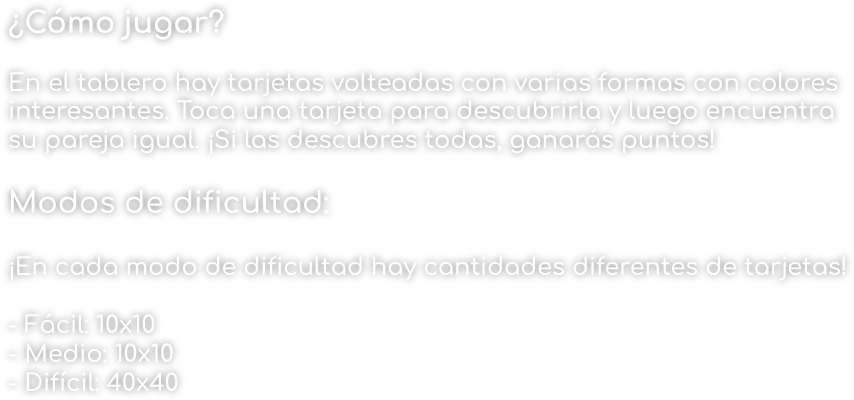
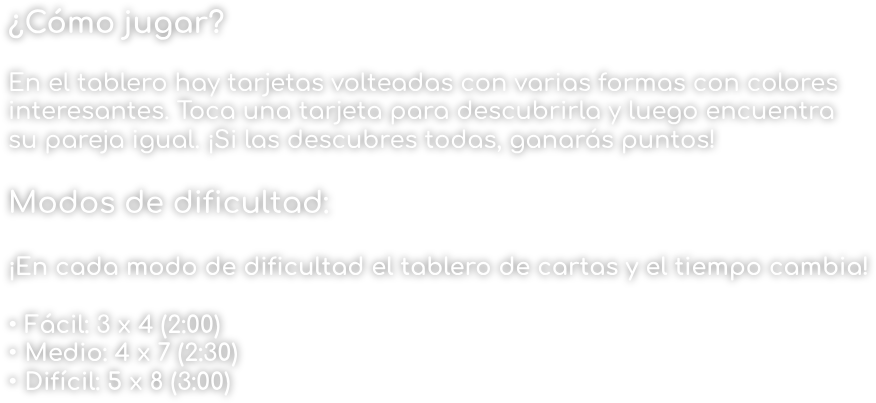
feat(in-game-screen): create different difficulty types and prepare storage for saving player records

diff --git a/src/screen/in_game_screen.py b/src/screen/in_game_screen.py
@@ -1,12 +1,14 @@
 import pygame
 import random
+from enum import Enum
 from util.asset_paths import image_path
 from screen.base import GameScreen
 from game import Game, GameScreen
 from util.easing import ease_in_out_cubic
 from screen.component.back_to_main_menu_button import BackToMainMenuButton
+from game import GAME_TIMER_EVENT
 
-FLIPPING_PROGRESS_STEP = 4
+CARD_FLIPPING_PROGRESS_STEP = 4
 
 class InGameCard:
     def __init__(self, screen: "InGameScreen", identifier: str, width: int, height: int):
@@ -25,7 +27,7 @@ class InGameCard:
 
     def draw(self, y_offset: float):
         if (self.flipping_progress > 0):
-            self.flipping_progress -= FLIPPING_PROGRESS_STEP
+            self.flipping_progress -= CARD_FLIPPING_PROGRESS_STEP
         
         width_progress = self.flipping_progress - 50 if self.flipping_progress > 50 else 50 - self.flipping_progress
         progress = ease_in_out_cubic(width_progress / 50) * 100
@@ -77,6 +79,7 @@ class InGameCardGroup:
         self.found_pairs: list[str] = []
         self.queued_card_flip_ticks = -1
         self.cards_queued_for_flipping: list[str] = []
+        self.reset_cards_ticks = -1
 
     def __populate_cards(self):
         random.shuffle(AVAILABLE_CARDS) # mutating the original list is not a problem here
@@ -108,6 +111,14 @@ class InGameCardGroup:
             self.queued_card_flip_ticks = -1
             self.__flip_queued_cards()
 
+        if (self.reset_cards_ticks > 0):
+            self.reset_cards_ticks -= 1
+        if (self.reset_cards_ticks == 100):
+            self.flip_all()
+        if (self.reset_cards_ticks == 0):
+            self.reset_cards_ticks = -1
+            self.reset()
+
         is_mouse_hovering = False
         for card in self.cards:
             card.is_mouse_hovering = card.rect.collidepoint(pygame.mouse.get_pos()) if not self.screen.is_transitioning() and not card.is_flipped and not card.is_flipping() else False
@@ -116,12 +127,20 @@ class InGameCardGroup:
                 is_mouse_hovering = True
         self.is_mouse_hovering = is_mouse_hovering if not self.screen.is_transitioning() and self.interactive and len(self.get_selected_cards()) < 2 else False
         
+    def reset(self):
+        self.cards.clear()
+        self.__populate_cards()
+        self.__align_images_in_grid()
+        self.screen.card_display_time = self.screen.difficulty.card_display_time - 50
+        self.found_pairs.clear()
+        self.screen.elapsed_time = 0
+
     def on_click(self):
         if (not self.interactive or len(self.get_selected_cards()) >= 2): return
         for card in self.cards:
             card.on_screen_click()
         self.__queue_selected_flip_if_needed()
-        # self.check_for_game_win()
+        self.__check_for_win()
 
     def flip_all(self):
         for card in self.cards:
@@ -142,40 +161,95 @@ class InGameCardGroup:
             self.found_pairs.append(selected_cards[0])
         else:
             self.cards_queued_for_flipping = selected_cards
-            self.queued_card_flip_ticks = 35
+            self.queued_card_flip_ticks = 25
 
     def __flip_queued_cards(self):
         for card in self.cards:
             if (card.identifier in self.cards_queued_for_flipping and card.is_flipped):
                 card.flip()
 
+    def __check_for_win(self):
+        all_flipped = True
+        for card in self.cards:
+            if (not card.is_flipped):
+                all_flipped = False
+                break
+        if (all_flipped):
+            self.screen.timer_active = False
+            self.interactive = False
+            self.reset_cards_ticks = 200
+            self.screen.add_points()
+
+class InGameInfoDisplay:
+    def __init__(self, screen: "InGameScreen"):
+        self.screen = screen
+        self.font = screen.game.font_manager.get("comfortaa-bold", 25)
+
+    def draw(self):
+        self.__update_info()
+        self.__draw_centered_text(self.time_left, 30)
+        self.__draw_centered_text(self.points, 60)
+
+    def __draw_centered_text(self, label: str, y: int):
+        text = self.font.render(label, True, (255, 255, 255))
+        x = self.screen.game.display.get_width() / 2 - text.get_width() / 2
+        self.screen.game.display.blit(text, (x, y))
+
+    def __update_info(self):
+        time_left_minutes = self.screen.time_left // 60
+        time_left_seconds = self.screen.time_left - (time_left_minutes * 60)
+        self.time_left = f"{str.rjust(str(time_left_minutes), 2, "0")}:{str.rjust(str(time_left_seconds), 2, "0")}"
+        self.points = f"Puntos: {self.screen.points}"
+
+class InGameDifficulty(Enum):
+    EASY = (1, 1.0, 3, 4, 120, 220) 
+    MEDIUM = (2, 1.5, 4, 7, 150, 290)
+    HARD = (3, 2.0, 5, 8, 180, 400)
+
+    def __init__(self, value: int, multiplier: float, rows: int, columns: int, game_time: int, card_display_time: int):
+        self._value_ = value
+        self.multiplier = multiplier
+        self.rows = rows
+        self.columns = columns
+        self.game_time = game_time
+        self.card_display_time = card_display_time
+
 class InGameScreen(GameScreen):
-    def __init__(self, game: Game, rows: int, columns: int, initial_points: int):
+    def __init__(self, game: Game, difficulty: InGameDifficulty):
         super().__init__(game)
-        self.card_group = InGameCardGroup(self, rows, columns)
+        self.difficulty = difficulty
+        self.card_group = InGameCardGroup(self, difficulty.rows, difficulty.columns)
         self.empty_card_image = pygame.image.load(image_path("empty_card.png"))
-        self.initial_card_display_time = 250
-        self.initial_points = initial_points
-        self.back_button = BackToMainMenuButton(self)
+        self.card_display_time = difficulty.card_display_time
+        self.back_button = BackToMainMenuButton(self, "Salir")
+        back_button_width = 250
         self.back_button.set_rect(
-            pygame.Rect(game.display.get_width() / 2 - 125, 563, 250, 60)
+            pygame.Rect(game.display.get_width() / 2 - back_button_width / 2, 563, back_button_width, 60)
         )
+        self.points = 0
+        self.time_left = difficulty.game_time
+        self.elapsed_time = 0
+        self.timer_active = False
+        self.game_info_display = InGameInfoDisplay(self)
 
     def draw(self):
         current_y_offset = self.transition_offset()
         if (current_y_offset < -400 and self._hiding):
             self.hidden = True
             return
-        if (self.initial_card_display_time == 0):
-            self.initial_card_display_time = -1
+        if (self.card_display_time == 0):
+            self.card_display_time = -1
             self.card_group.flip_all()
             self.card_group.interactive = True
-        elif (self.initial_card_display_time == 190):
+            pygame.time.set_timer(GAME_TIMER_EVENT, millis=1000)
+            self.timer_active = True
+        elif (self.card_display_time == self.difficulty.card_display_time - 50):
             self.card_group.flip_all()
 
-        if (self.initial_card_display_time > 0):
-            self.initial_card_display_time -= 1
+        if (self.card_display_time > 0):
+            self.card_display_time -= 1
 
+        self.game_info_display.draw()
         self.card_group.draw(current_y_offset)
 
         self.back_button.is_mouse_hovering = self.back_button.rect.collidepoint(pygame.mouse.get_pos()) if not self.is_transitioning() else False
@@ -189,3 +263,13 @@ class InGameScreen(GameScreen):
     def on_click(self):
         self.card_group.on_click()
         self.back_button.on_screen_click()
+
+    def add_points(self):
+        print(self.elapsed_time)
+        base_points = max(0, self.difficulty.game_time - self.elapsed_time)
+        self.points += int(base_points * self.difficulty.multiplier)
+
+    def on_game_timer_tick(self):
+        if (self.timer_active):
+            self.time_left -= 1
+            self.elapsed_time += 1

diff --git a/src/game.py b/src/game.py
@@ -4,9 +4,12 @@ from manager.fonts import FontManager
 from manager.sounds import SoundManager
 from screen.component.background import GameBackground
 from manager.settings import SettingsManager
-        
+
 INITIAL_MUSIC_DELAY = 40
 INITIAL_MAIN_MENU_TRANSITION_DELAY = 20
+
+GAME_TIMER_EVENT = pygame.USEREVENT + 1
+
 
 class Game:
     def __init__(self):
@@ -18,11 +21,13 @@ class Game:
         self.font_manager = FontManager()
         self.settings = SettingsManager(self.storage)
         self.sound_manager = SoundManager(self.settings)
-        self.background = GameBackground(self.display, self.settings.transitions_enabled)
-        self.__current_screen: GameScreen = MainMenuScreen(self, INITIAL_MAIN_MENU_TRANSITION_DELAY if self.settings.transitions_enabled else 0)
+        self.background = GameBackground(
+            self.display, self.settings.transitions_enabled)
+        self.__current_screen: GameScreen = MainMenuScreen(
+            self, INITIAL_MAIN_MENU_TRANSITION_DELAY if self.settings.transitions_enabled else 0)
         self.__next_screen: GameScreen | None = None
         self.__music_tick_delay_left = INITIAL_MUSIC_DELAY if self.settings.music_enabled else -1
-        
+
     def handle_initial_music_playback(self):
         if (self.__music_tick_delay_left > 0):
             self.__music_tick_delay_left -= 1
@@ -32,18 +37,19 @@ class Game:
 
     def run(self):
         while self.is_running:
-            pygame.display.set_caption(f"Memoria - {int(self.clock.get_fps())} FPS")
+            pygame.display.set_caption(
+                f"Memoria - {int(self.clock.get_fps())} FPS")
             self.handle_events()
-            self.handle_initial_music_playback()    
+            self.handle_initial_music_playback()
             self.handle_screen_switch()
-            
+
             self.display.fill((0, 0, 0))
             self.background.draw()
             self.__current_screen.draw()
-            
+
             pygame.display.flip()
             self.clock.tick(60)
-            
+
     def handle_screen_switch(self):
         if (self.__next_screen == None):
             return
@@ -54,13 +60,17 @@ class Game:
     def stop(self):
         self.storage.close()
         self.is_running = False
-            
+
     def handle_events(self):
+        from screen.in_game_screen import InGameScreen
         for event in pygame.event.get():
             if event.type == pygame.QUIT:
                 self.stop()
             elif event.type == pygame.MOUSEBUTTONDOWN and event.button == 1 and not self.__current_screen.is_transitioning():
                 self.__current_screen.on_click()
+            elif event.type == GAME_TIMER_EVENT:
+                if isinstance(self.__current_screen, InGameScreen):
+                    self.__current_screen.on_game_timer_tick()
                 
     def switch_screen(self, screen: "GameScreen"):
         if (self.settings.transitions_enabled):

diff --git a/src/screen/game_difficulty_screen.py b/src/screen/game_difficulty_screen.py
@@ -2,7 +2,7 @@ import pygame
 from screen.base import GameScreen
 from game import Game, GameScreen
 from screen.component.button import Button, Alignment
-from screen.in_game_screen import InGameScreen
+from screen.in_game_screen import InGameScreen, InGameDifficulty
 from screen.component.game_title import GameTitleImage
 from screen.component.back_to_main_menu_button import BackToMainMenuButton
 from screen.component.image_wrappers import HorizontallyAlignedImage
@@ -37,21 +37,21 @@ class GameDifficultyEasyButton(Button):
         super().__init__(screen, "Fácil", Alignment.CENTER) 
         
     def on_click(self):
-        self.screen.game.switch_screen(InGameScreen(self.screen.game, 3, 4, 0))
+        self.screen.game.switch_screen(InGameScreen(self.screen.game, InGameDifficulty.EASY))
         
 class GameDifficultyMediumButton(Button):
     def __init__(self, screen: GameDifficultyScreen):
         super().__init__(screen, "Medio", Alignment.CENTER)
         
     def on_click(self):
-        self.screen.game.switch_screen(InGameScreen(self.screen.game, 4, 7, 0))
+        self.screen.game.switch_screen(InGameScreen(self.screen.game, InGameDifficulty.MEDIUM))
         
 class GameDifficultyHardButton(Button):
     def __init__(self, screen: GameDifficultyScreen):
         super().__init__(screen, "Difícil", Alignment.CENTER) 
         
     def on_click(self):
-        self.screen.game.switch_screen(InGameScreen(self.screen.game, 5, 8, 0))
+        self.screen.game.switch_screen(InGameScreen(self.screen.game, InGameDifficulty.HARD))
         
 BUTTON_WIDTH = 250
 BUTTON_HEIGHT = 60

diff --git a/src/storage.py b/src/storage.py
@@ -14,6 +14,13 @@ class StorageDriver:
                     UNIQUE(name)
                 )
             """)
+            self.conn.execute("""
+                CREATE TABLE IF NOT EXISTS records (
+                    difficulty TEXT PRIMARY KEY,
+                    value INTEGER,
+                    UNIQUE(difficulty)
+                )
+            """)
     
     def get_setting(self, name: str, default: bool) -> bool:
         cursor = self.conn.execute("""
@@ -28,6 +35,21 @@ class StorageDriver:
             self.conn.execute("""
                 INSERT OR REPLACE INTO settings (name, value) VALUES (?, ?)
             """, (name, val))
+
+    def get_difficulty_record(self, difficulty: int):
+        cursor = self.conn.execute("""
+            SELECT value FROM records WHERE difficulty = ?
+        """, (difficulty,))
+        result = cursor.fetchone()
+        return 0 if result == None else int(result[0])
+
+    def set_difficulty_record(self, difficulty: int, value: int):
+        record = self.get_difficulty_record(difficulty)
+        if (record >= value): return
+        with self.conn:
+            self.conn.execute("""
+                INSERT OR REPLACE INTO records (difficulty, value) VALUES (?, ?)
+            """, (difficulty, value))
     
     def close(self):
         self.conn.close()

diff --git a/src/screen/component/back_to_main_menu_button.py b/src/screen/component/back_to_main_menu_button.py
@@ -1,8 +1,8 @@
 from screen.component.button import Button, Alignment
 
 class BackToMainMenuButton(Button):
-    def __init__(self, screen: "GameScreen"):
-        super().__init__(screen, "Regresar", Alignment.CENTER) 
+    def __init__(self, screen: "GameScreen", label: str = "Regresar"):
+        super().__init__(screen, label, Alignment.CENTER) 
         
     def on_click(self):
         from screen.main_menu_screen import MainMenuScreen
